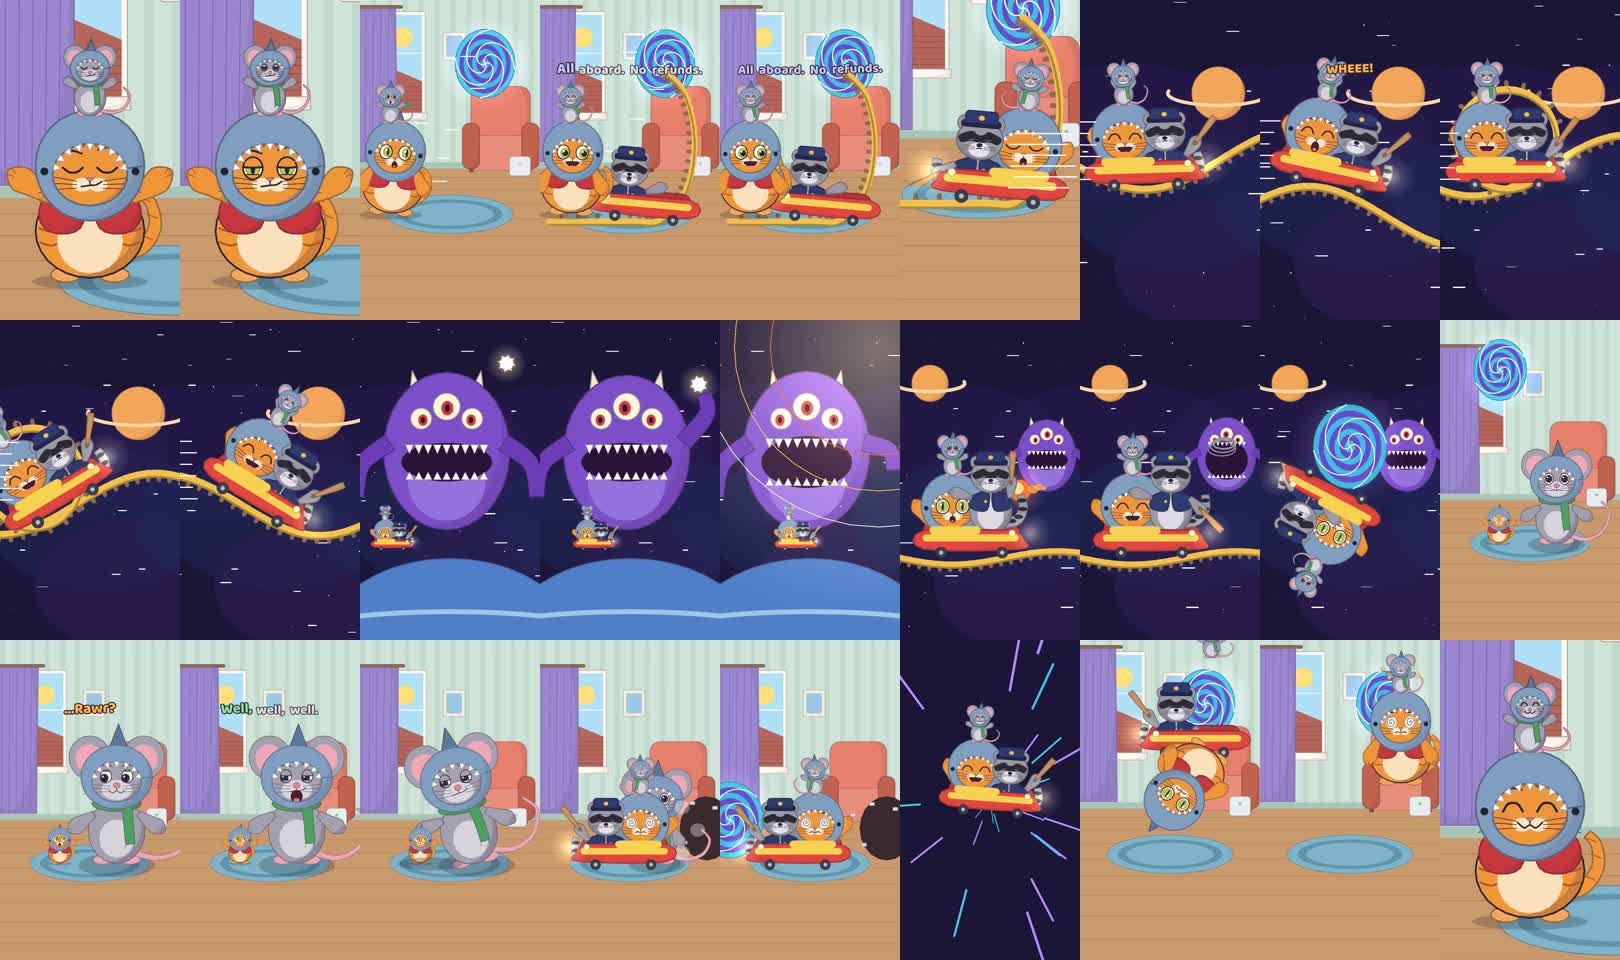
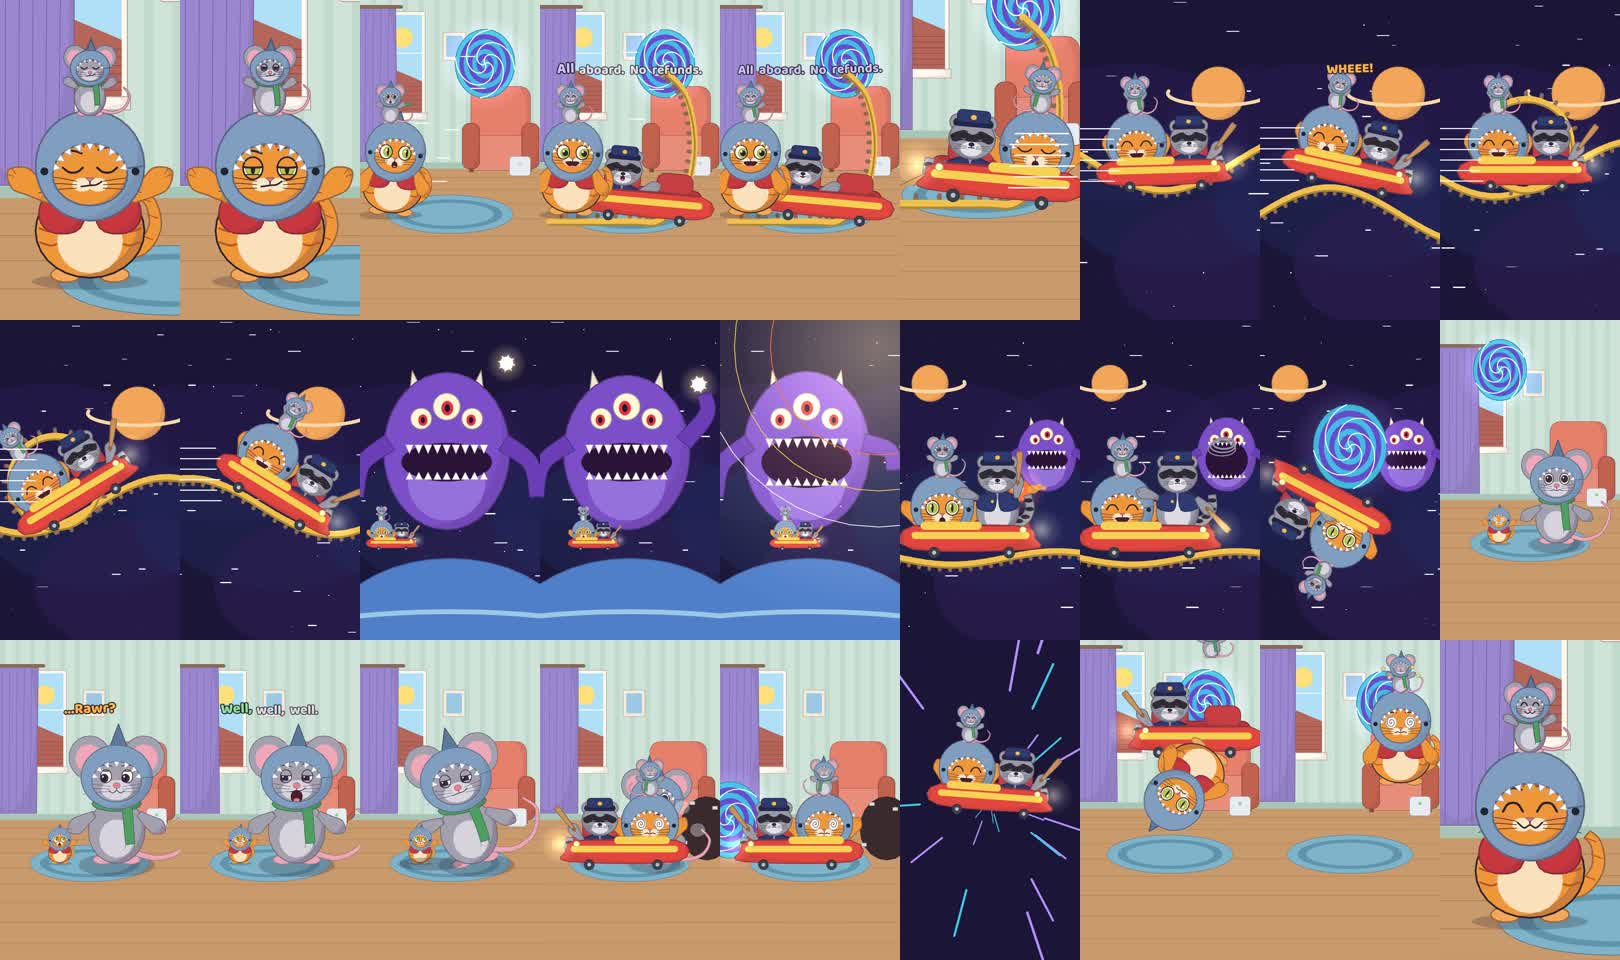
Story 11: final render after the coaster fixes
Claude-Session: https://claude.ai/code/session_01WxLgLEHMpMLzcpsXCfSmmp

diff --git a/stories/11-space-coaster/STATUS.md b/stories/11-space-coaster/STATUS.md
@@ -7,4 +7,4 @@
 - [x] 9 ช็อต · drycheck 0 problems · เฟรมแรก = เฟรมสุดท้าย
 - [x] SFX + เพลง (28 ห้อง 134.4 bpm = 50 s, เงียบก่อนดาวระเบิด) · มิกซ์ -14.6 LUFS
 - [x] `out/video.mp4` 1080x1920 50 s + ปก + `YOUTUBE.md`
-- [ ] ผู้ใช้ดูแล้วสั่งแก้ (ถ้ามี: ส่งภาพนิ่งก่อน)
+- [x] แก้ตามผู้ใช้ "ตอนบนรถไฟ": รถยาวขึ้น มีพนักพิง, Dusty กับ Pumpkin นั่งแยกไม่ทับกัน, กล้องตอนซิ่งอยู่กลางรถ · เรนเดอร์ใหม่แล้ว
